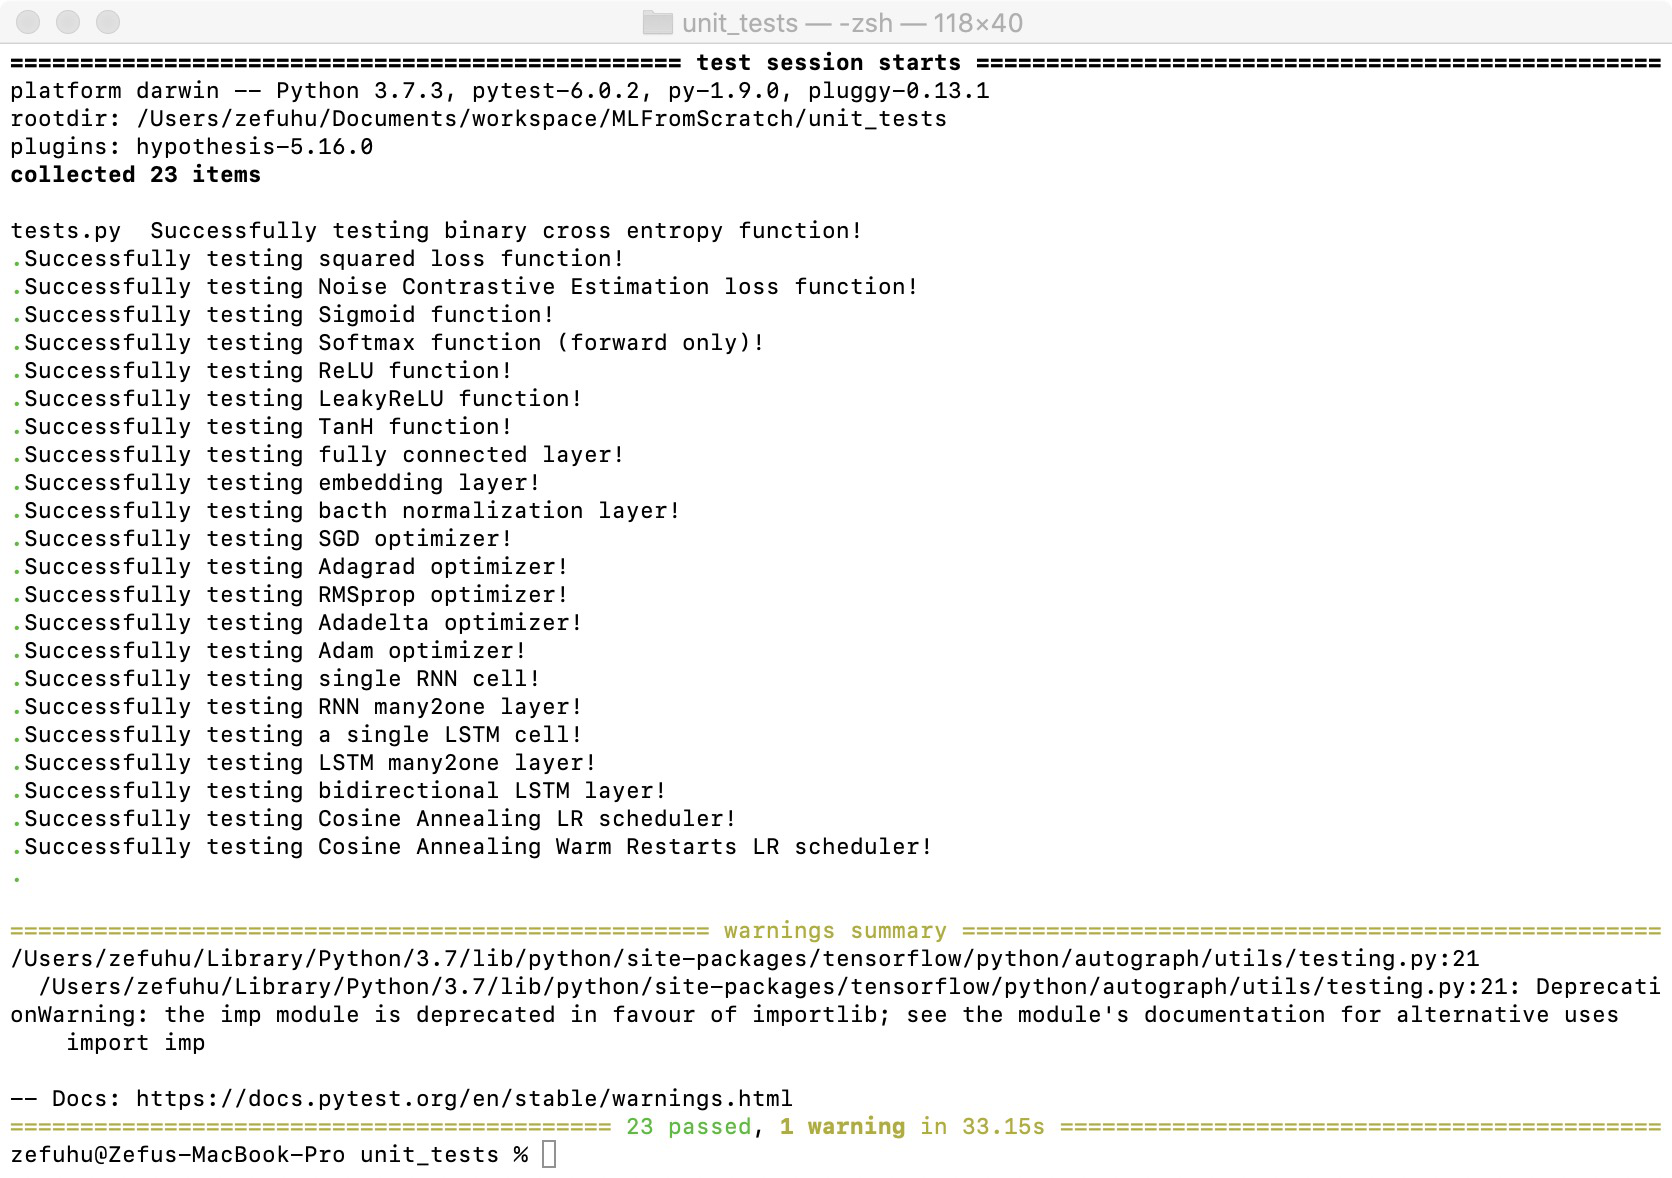
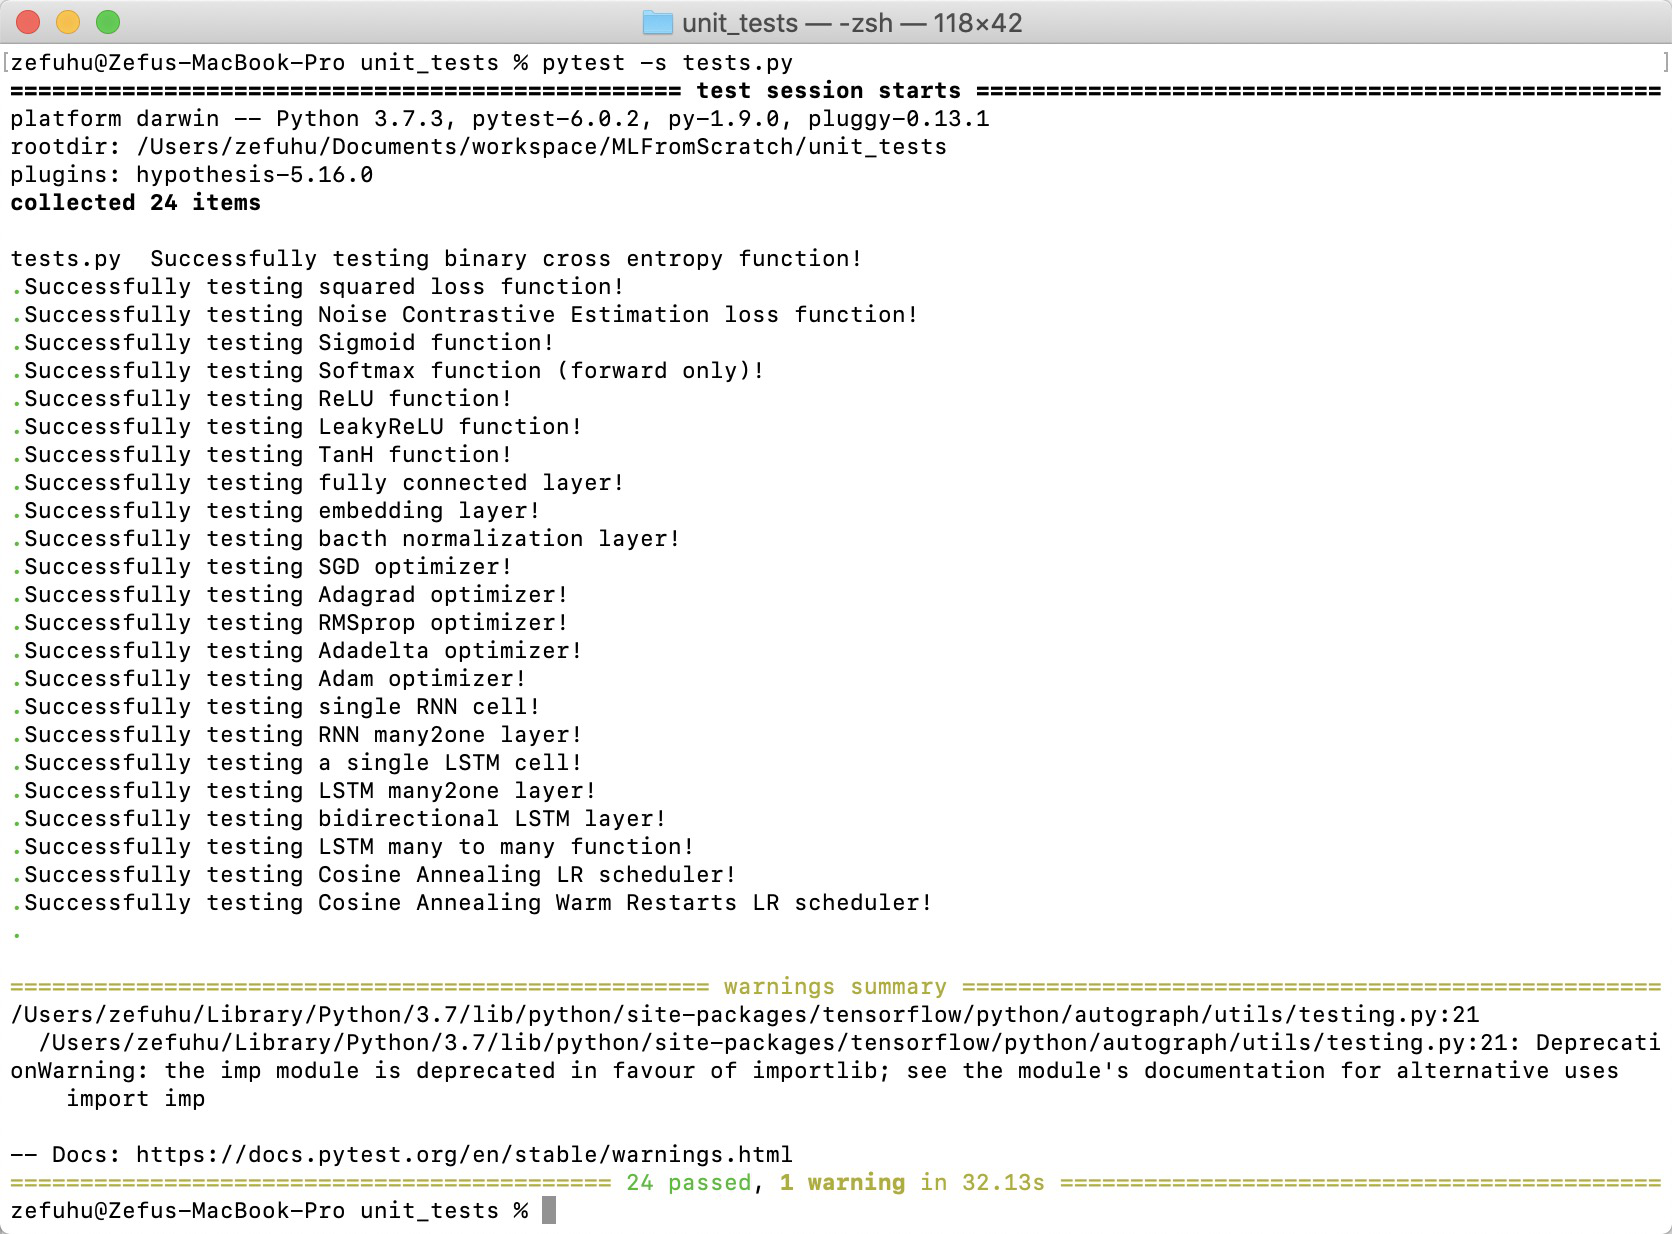
type: doc
Update the picture for unit test

diff --git a/unit_tests/tests.py b/unit_tests/tests.py
@@ -1364,7 +1364,7 @@ def test_LSTM_many2many(cases):
             assert_almost_equal(mine_dLdX[:,:,this_t], gold_dLdX[this_t],decimal=decimal)
 
         i += 1
-    print ("Successfully testing LSTM many to many function")
+    print ("Successfully testing LSTM many to many function!")
 
 def test_cosine_annealing_scheduler(cases):
     """

diff --git a/README.md b/README.md
@@ -51,6 +51,7 @@ efficient as possible
 
 - Models
   * [word2vec](https://github.com/Superhzf/MLFromScratch/blob/master/numpy_ml/deep_learning/models/word2vec.py)
+  * LSTM many to many
 
 ## Unsupervised Learning
 
